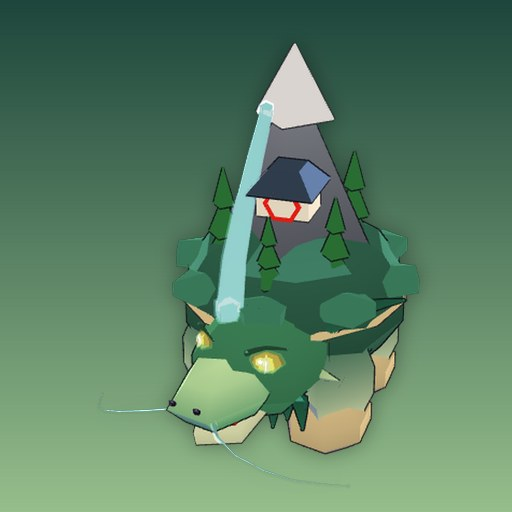
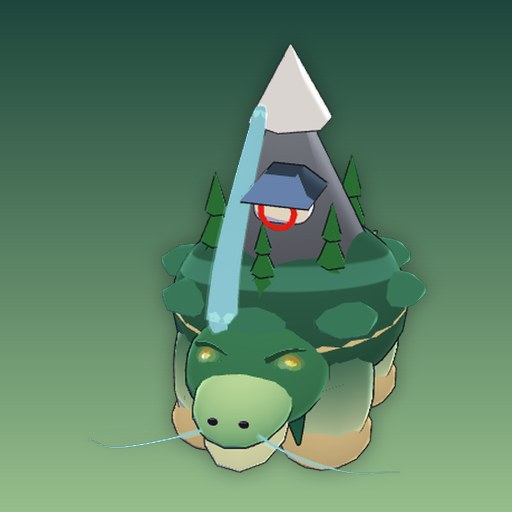
v90: kaiju redesigned as smooth rounded 3D forms (no facets or box parts), fin spikes, no limb banding, hit-flash capped on giants, art regenerated
Claude-Session: https://claude.ai/code/session_01SKeSLCyvBErUkZf5ohkh72

Changed region(s): [[0.2812, 0.0625, 0.8438, 0.9375], [0.25, 0.7812, 0.2812, 0.8125]]

diff --git a/goldstack-3d-chars.js b/goldstack-3d-chars.js
@@ -30,6 +30,11 @@ const G_={
   cyl:(rt,rb,h,rs=12,open=false)=>ni(new T.CylinderGeometry(rt,rb,h,sg(rs,4),1,open)),
   cone:(r,h,rs=10)=>ni(new T.ConeGeometry(r,h,sg(rs,4))),
   box:(w,h,d)=>ni(new T.BoxGeometry(w,h,d)),
+  /* v90 rounded box: a superellipsoid (pillow-soft edges), analytic normals so the toon shading stays smooth */
+  rbox:(w,h,d,e=0.5)=>{ const rx=w/2, ry=h/2, rz=d/2, g=new T.SphereGeometry(1,sg(18,8),sg(12,6)), p=g.attributes.position, N=new Float32Array(p.count*3), sp=(v,k)=>Math.sign(v)*Math.pow(Math.abs(v),k);
+    for(let i=0;i<p.count;i++){ const x=p.getX(i), y=p.getY(i), z=p.getZ(i); p.setXYZ(i,sp(x,e)*rx,sp(y,e)*ry,sp(z,e)*rz);
+      let nx=sp(x,1-e)/rx, ny=sp(y,1-e)/ry, nz=sp(z,1-e)/rz; const l=Math.hypot(nx,ny,nz)||1; N[i*3]=nx/l; N[i*3+1]=ny/l; N[i*3+2]=nz/l; }
+    g.setAttribute('normal',new T.BufferAttribute(N,3)); return ni(g); },
   tor:(R,r,rs=8,ts=24,arc=TAU)=>ni(new T.TorusGeometry(R,r,sg(rs,3),sg(ts,6),arc)),
   lathe:(pts,seg=16,phi0=0,phiL=TAU)=>{ const q=pts[0][1]>pts[pts.length-1][1]?pts.slice().reverse():pts;   /* profile must run bottom-up so faces point outward */
     return ni(new T.LatheGeometry(q.map(p=>new T.Vector2(Math.max(0.0005,p[0]),p[1])),sg(seg,5),phi0,phiL)); },
@@ -1337,7 +1342,7 @@ def('odokuro',  {type:'kaiju',v:'gz',g:'bone',atk:'bite'});
 def('mekaryu',  {type:'kaiju',v:'gz',g:'mecha',atk:'slam'});
 def('shishi',   {type:'quad',key:'shishi',len:4.4,height:1.9,w:1.9,leg:0.85,headR:1.9,col:0x8C9098,col2:0x5E626C,belly:0xC8CCD4,headKind:'lion',headCol:0x9CA0AA,muzzle:0xB4B8C2,mane:0x2E8C78,maneTip:0xBFF5DC,eyeCol:0xFFB03A,eyeGlow:true,fangs:true,tail:'fluffy',tailLen:2.0,tailCol:0x2E8C78,tailTip:0xBFF5DC,extra:shishiExtra});
 def('oshiro',   {type:'kaiju',v:'gz',g:'castle',atk:'slam'});
-const SEGK_OF={gokaryu:0.42,mizuchi:0.42,genbu:0.42,yamata:0.4,otori:0.42,hitotsume:0.45,odokuro:0.42,mekaryu:0.5,shishi:0.42,oshiro:0.42,kuzuryu:0.42,orochi:0.48,kitsune:0.55,amaterasu:0.55,susanoo:0.75,saruta:0.75,orizuru:0.72,kane:0.75,raijin:0.8,mao:0.8,inari:0.8};
+const SEGK_OF={gokaryu:0.65,mizuchi:0.65,genbu:0.65,yamata:0.65,otori:0.65,hitotsume:0.65,odokuro:0.65,mekaryu:0.65,shishi:0.65,oshiro:0.65,kuzuryu:0.42,orochi:0.48,kitsune:0.55,amaterasu:0.55,susanoo:0.75,saruta:0.75,orizuru:0.72,kane:0.75,raijin:0.8,mao:0.8,inari:0.8};
 function getBuilt(key){ if(BUILT[key]) return BUILT[key]; const sp=DEFS[key]; if(!sp) return null;
   const pK=SEGK; SEGK=SEGK_OF[key]||1; let b; try{ b=buildByType(sp); } finally{ SEGK=pK; }
   const geos=b.rig.build(); const bb=geos.toon.boundingBox; geos.height=bb.max.y-Math.min(0,bb.min.y);
@@ -1347,8 +1352,8 @@ function getBuilt(key){ if(BUILT[key]) return BUILT[key]; const sp=DEFS[key]; if
       for(let i=0;i<ps.count;i+=3){ v.fromBufferAttribute(ps,i).multiply(sc3).applyQuaternion(qq).add(new T.Vector3(pt.p[0],pt.p[1],pt.p[2])); const d=v.lengthSq(); if(d>best){ best=d; tip=v.clone(); } } }
     if(tip&&best<0.09) tip=null; }catch(err){ tip=null; }   /* v86: weapon tip in hand space, for the swing trail */
   return (BUILT[key]={sp,b,geos,height:geos.height,proto:b.rig,tip}); }
-function kBuild(sp){ const o=KJV[sp.v](sp); o.rig.minPart=0.1; o.rig.minPartOl=0.35; o.rig.facet=true; return o; }
-function kQuad(sp){ const o=buildQuad(sp); o.rig.minPart=0.07; o.rig.minPartOl=0.22; o.rig.facet=true; return o; }
+function kBuild(sp){ const o=KJV[sp.v](sp); o.rig.minPart=0.1; o.rig.minPartOl=0.35; return o; }
+function kQuad(sp){ const o=buildQuad(sp); o.rig.minPart=0.07; o.rig.minPartOl=0.22; return o; }
 function buildByType(sp){ return sp.type==='quad'?(sp.key==='genbu'||sp.key==='shishi'?kQuad(sp):buildQuad(sp)):sp.type==='serpent'?buildSerpent(sp):sp.type==='spider'?buildSpider(sp):sp.type==='blob'?buildBlob(sp):sp.type==='kaiju'?kBuild(sp):sp.type==='fish'?buildFish(sp):buildHuman(sp); }
 function cloneRig(proto){ /* fresh bone hierarchy matching the prototype's bind pose */
   const map={}, bones=[];
@@ -1534,21 +1539,21 @@ function kBipedBones(R,o){
 function kLegs(R,o){ const c=o.col;
   for(const sd of [1,-1]){ const n=sd>0?'L':'R';
     R.add('thigh'+n,G_.sph(o.thR*1.2,o.thR*1.1,o.thR*1.2),c,{});
-    R.add('thigh'+n,G_.cap(o.thR,Math.max(0.1,o.L1-o.thR*1.6),10),c,{p:[0,-o.L1*0.5,0],grad:o.belly,gax:1.5});
+    R.add('thigh'+n,G_.cap(o.thR,Math.max(0.1,o.L1-o.thR*1.6),10),c,{p:[0,-o.L1*0.5,0],grad:o.flat?null:o.belly,gax:1.5});
     R.add('shin'+n,G_.sph(o.shR*1.15,o.shR*1.1,o.shR*1.15),c,{});
-    R.add('shin'+n,G_.cap(o.shR,Math.max(0.1,o.L2-o.shR*1.6),10),c,{p:[0,-o.L2*0.5,0],grad:o.belly});
+    R.add('shin'+n,G_.cap(o.shR,Math.max(0.1,o.L2-o.shR*1.6),10),c,{p:[0,-o.L2*0.5,0],grad:o.flat?null:o.belly});
     const fl=o.fl||1.1, fr=o.fr||0.5;
     R.add('foot'+n,G_.sph(fr*0.95,fr*0.5,fl*0.62),o.foot||c,{p:[0,-0.12,fl*0.35]});
     for(let k=-1;k<=1;k++) R.add('foot'+n,G_.cone(fr*0.2,fl*0.55,5),o.claw||0xF2EAD8,{p:[k*fr*0.55,-0.14,fl*0.98],r:[Math.PI/2,0,0]}); } }
 function kArms(R,o,claws){ const c=o.col, r=o.arR;
   for(const sd of [1,-1]){ const n=sd>0?'L':'R';
     R.add('arm'+n,G_.sph(r*1.4,r*1.3,r*1.4),c,{});
-    R.add('arm'+n,G_.cap(r,Math.max(0.1,o.aU-r*1.6),9),c,{p:[0,-o.aU*0.5,0],grad:o.belly,gax:1.5});
+    R.add('arm'+n,G_.cap(r,Math.max(0.1,o.aU-r*1.6),9),c,{p:[0,-o.aU*0.5,0],grad:o.flat?null:o.belly,gax:1.5});
     R.add('fore'+n,G_.sph(r*1.1,r*1.05,r*1.1),c,{});
     R.add('fore'+n,G_.cap(r*0.92,Math.max(0.1,o.aF-r*1.6),9),c,{p:[0,-o.aF*0.5,0]});
     R.add('hand'+n,G_.sph(r*1.25,r*1.1,r*1.15),o.hand||c,{p:[0,-r*0.5,0.05]});
     if(claws!==false) for(let k=-1;k<=1;k++) R.add('hand'+n,G_.cone(r*0.2,r*1.5,5),o.claw||0xF2EAD8,{p:[k*r*0.55,-r*1.45,r*0.5],r:[Math.PI-0.7,0,0]}); } }
-function kTail(R,o,c,grad,n0){ for(let i=0;i<6;i++){ const r=o.tr*(1-i*0.15); R.add('tail'+i,G_.sph(r,r*0.95,o.tl*0.62,12,8),c,{p:[0,0,-o.tl*0.5],grad:i>2?grad:null}); } }
+function kTail(R,o,c,grad,n0){ for(let i=0;i<6;i++){ const r=o.tr*(1-i*0.15); R.add('tail'+i,G_.sph(r,r*0.95,o.tl*0.62,12,8),c,{p:[0,0,-o.tl*0.5],grad:(i>2&&!o.flat)?grad:null}); } }
 function kEyeGlow(R,bone,x,y,z,r,col,tilt){ R.add(bone,G_.sph(r*1.1,r*0.55,r*0.4,10,8),col,{p:[x,y,z],r:[0,0,tilt||0],glow:true,ol:false,grad:0xFFFFFF}); }
 function kTeeth(R,bone,n,x0,x1,z0,z1,y,sz,col,up){ for(let i=0;i<n;i++){ const t=n>1?i/(n-1):0.5, z=z0+(z1-z0)*t, x=x0+(x1-x0)*t;
     for(const sd of [1,-1]) R.add(bone,G_.cone(sz*0.5,sz*(1.1-0.4*Math.abs(t-0.4)),4),col,{p:[sd*x,y,z],r:[up?0:Math.PI,0,0],ol:false}); } }
@@ -1927,26 +1932,27 @@ const GZ={
   mecha :{hide:0x262A34,hide2:0x434A5A,belly:0x1A1D26,plate:0x2E3340,hot:0x59E6FF,hot2:0xFFFFFF,eye:0x59E6FF,claw:0xD8A82A},
   castle:{hide:0x3C5448,hide2:0x6A8C70,belly:0xC8BE98,plate:0x7C8290,hot:0xFFB03A,hot2:0xFFE79A,eye:0xFFE27A,claw:0xF5C542}};
 /* a flat diamond dorsal plate standing in the body's mid-plane; its tip leans back */
-function gzPlate(R,bone,x,y,z,s,col,hot,lean){ const a=G_.shape([[-0.62,0],[-0.22,0.95],[0,1.55],[0.22,0.95],[0.62,0]],0.2,0);
-  R.add(bone,a,col,{p:[x,y,z],r:[-(lean==null?0.5:lean),Math.PI/2,0],s:[s,s,s]});
-  if(hot) R.add(bone,G_.shape([[-0.2,0.9],[0,1.6],[0.2,0.9]],0.24,0),hot,{p:[x,y,z],r:[-(lean==null?0.5:lean),Math.PI/2,0],s:[s,s,s],glow:true,ol:false}); }
+function gzPlate(R,bone,x,y,z,s,col,hot,lean){ const ls=-(lean==null?0.5:lean);
+  const fin=G_.cone(0.62,1.55,10); fin.translate(0,0.775,0);
+  R.add(bone,fin,col,{p:[x,y,z],r:[ls,0,0],s:[s*0.34,s,s*0.9],grad:shade(col,0.7),gax:1.4});
+  if(hot){ const c2=G_.cone(0.3,1.1,8); c2.translate(0,0.55,0); R.add(bone,c2,hot,{p:[x,y+0.04*s,z],r:[ls,0,0],s:[s*0.5,s,s*0.9],glow:true,ol:false}); } }
 /* long-necked head (one of three on the hydra) */
 function gzHead(R,bone,jawBone,hr,P,g){
   const mech=g==='mecha', skull=g==='bone';
   if(mech){
-    R.add(bone,G_.box(hr*1.5,hr*1.1,hr*1.7),P.hide,{p:[0,0,hr*0.2],grad:P.hide2});
-    R.add(bone,G_.box(hr*1.2,hr*0.38,hr*0.5),P.hide2,{p:[0,-hr*0.05,hr*1.15]});
-    R.add(bone,G_.box(hr*1.3,hr*0.2,hr*0.35),P.hot,{p:[0,hr*0.12,hr*1.08],glow:true,ol:false,grad:P.hot2});
-    for(const sd of [1,-1]){ R.add(bone,G_.box(hr*0.25,hr*0.9,hr*1.0),P.plate,{p:[sd*hr*0.82,-hr*0.1,hr*0.1]});
+    R.add(bone,G_.rbox(hr*1.5,hr*1.1,hr*1.7),P.hide,{p:[0,0,hr*0.2],grad:P.hide2});
+    R.add(bone,G_.rbox(hr*1.2,hr*0.38,hr*0.5),P.hide2,{p:[0,-hr*0.05,hr*1.15]});
+    R.add(bone,G_.rbox(hr*1.3,hr*0.2,hr*0.35),P.hot,{p:[0,hr*0.12,hr*1.08],glow:true,ol:false,grad:P.hot2});
+    for(const sd of [1,-1]){ R.add(bone,G_.rbox(hr*0.25,hr*0.9,hr*1.0),P.plate,{p:[sd*hr*0.82,-hr*0.1,hr*0.1]});
       R.add(bone,G_.cone(hr*0.22,hr*1.6,4),P.claw,{p:[sd*hr*0.9,hr*0.85,-hr*0.2],r:[-0.5,0,sd*-0.7],grad:0x9A7418}); }
     R.add(bone,G_.shape([[-0.2,0],[0.2,0],[0.12,1.9],[0,2.4],[-0.12,1.9]],0.12,0),P.claw,{p:[0,hr*0.55,hr*0.55],r:[-0.3,0,0],s:[hr*0.8,hr*0.8,hr*0.8]});
-    R.add(jawBone||bone,G_.box(hr*1.1,hr*0.38,hr*1.2),P.hide2,{p:[0,-hr*0.5,hr*0.75]});
+    R.add(jawBone||bone,G_.rbox(hr*1.1,hr*0.38,hr*1.2),P.hide2,{p:[0,-hr*0.5,hr*0.75]});
     return; }
   const hc=skull?P.hide:P.hide, hc2=P.hide2;
   R.add(bone,G_.sph(hr*0.95,hr*0.8,hr*1.1,18,14),hc,{p:[0,0.05,0.1],grad:hc2,gax:1.5});
   R.add(bone,G_.sph(hr*(skull?0.55:0.72),hr*(skull?0.38:0.48),hr*(g==='wyvern'?1.25:1.05),16,12),hc,{p:[0,-hr*0.12,hr*1.15]});
   for(const sd of [1,-1]){
-    R.add(bone,G_.box(hr*0.55,hr*0.14,hr*0.7),shade(hc,0.55),{p:[sd*hr*0.46,hr*0.5,hr*0.78],r:[0.35,sd*-0.2,sd*-0.5]});   /* angry brow wedge */
+    R.add(bone,G_.rbox(hr*0.55,hr*0.14,hr*0.7),shade(hc,0.55),{p:[sd*hr*0.46,hr*0.5,hr*0.78],r:[0.35,sd*-0.2,sd*-0.5]});   /* angry brow wedge */
     kEyeGlow(R,bone,sd*hr*0.46,hr*(skull?0.18:0.3),hr*1.0,hr*(skull?0.34:0.26),P.eye,sd*-0.5);
     R.add(bone,G_.sph(hr*0.07,hr*0.06,hr*0.08,5,4),0x120E14,{p:[sd*hr*0.2,hr*0.02,hr*2.05],ol:false}); }
   /* species crests and horns */
@@ -1961,7 +1967,7 @@ function gzHead(R,bone,jawBone,hr,P,g){
       R.add(bone,G_.cone(hr*0.12,hr*0.9,4),0xFFF4D0,{p:[sd*hr*0.85,hr*0.1,hr*0.1],r:[-0.3,0,sd*-1.35]}); }
     R.add(bone,G_.shape([[-0.2,0],[0,1.4],[0.2,0]],0.16,0),P.plate,{p:[0,hr*0.75,-hr*0.1],r:[-0.4,Math.PI/2,0],s:[hr*0.9,hr*0.9,hr*0.9]}); }
   if(skull) for(const sd of [1,-1]) R.add(bone,G_.cone(hr*0.16,hr*1.0,4),P.hide2,{p:[sd*hr*0.55,hr*0.85,-hr*0.2],r:[-0.7,0,sd*-0.45]});
-  if(g==='castle') for(const sd of [1,-1]){ R.add(bone,G_.cone(hr*0.24,hr*1.8,4),P.claw,{p:[sd*hr*0.6,hr*0.85,-hr*0.2],r:[-0.55,0,sd*-0.6],grad:0xB88810}); R.add(bone,G_.box(hr*0.5,hr*0.14,hr*0.7),0xC8241E,{p:[sd*hr*0.46,hr*0.62,hr*0.75],r:[0.35,sd*-0.2,sd*-0.5]}); }
+  if(g==='castle') for(const sd of [1,-1]){ R.add(bone,G_.cone(hr*0.24,hr*1.8,4),P.claw,{p:[sd*hr*0.6,hr*0.85,-hr*0.2],r:[-0.55,0,sd*-0.6],grad:0xB88810}); R.add(bone,G_.rbox(hr*0.5,hr*0.14,hr*0.7),0xC8241E,{p:[sd*hr*0.46,hr*0.62,hr*0.75],r:[0.35,sd*-0.2,sd*-0.5]}); }
   /* mouth: dark gap, glow, teeth, jaw */
   R.add(bone,G_.sph(hr*0.55,hr*0.14,hr*1.0),skull?0x14101E:P.hot,{p:[0,-hr*0.52,hr*1.0],glow:!skull,ol:false,grad:P.hot2});
   kTeeth(R,bone,6,hr*0.5,hr*0.36,hr*0.5,hr*(g==='wyvern'?1.9:1.7),-hr*0.5,hr*(skull?0.4:0.32),0xFFFFFF,false);
@@ -1980,7 +1986,7 @@ function gzWings(R,P,W1,W2,L,span){ const mem=P.plate, fing=P.hide;
     kSpike(R,'wing2'+n,0.22,1.3,P.claw,[sd*W2,-0.3,-0.2],0,sd*-1.57); } }
 KJV.gz=function(sp){
   const g=sp.g, P=GZ[g], R=new Rig(), mech=g==='mecha', skel=g==='bone', hyd=g==='hydra', wyv=g==='wyvern', cas=g==='castle', tide=g==='tide';
-  const o={L1:2.3,L2:2.1,ft:0.35,tH:3.7,hw:1.45,cw:2.2,nk:1.1,hr:1.8,aU:1.2,aF:1.1,tl:1.55,tr:1.65,thR:1.4,shR:0.95,arR:0.5,fl:2.0,fr:0.85,col:P.hide,belly:P.belly,foot:P.hide,claw:P.claw,neckZ:0.55,headZ:0.5};
+  const o={L1:2.3,L2:2.1,ft:0.35,tH:3.7,hw:1.45,cw:2.2,nk:1.1,hr:1.8,aU:1.2,aF:1.1,tl:1.55,tr:1.65,thR:1.4,shR:0.95,arR:0.5,fl:2.0,fr:0.85,col:P.hide,belly:P.belly,foot:P.hide,claw:P.claw,neckZ:0.55,headZ:0.5,flat:true};
   if(tide) Object.assign(o,{thR:1.2,shR:0.8,aU:1.5,aF:1.4,arR:0.45,fr:0.95,tr:1.4});
   if(wyv) Object.assign(o,{thR:1.1,shR:0.75,L1:2.6,L2:2.6,nk:1.7,hr:1.55,aU:0,tl:1.7,tr:1.1,neckZ:0.9,fl:2.2,fr:0.7});
   if(hyd) Object.assign(o,{nk:2.4,hr:1.4,aU:0,thR:1.3,tl:1.8,tr:1.4,neckZ:0.7});
@@ -1988,17 +1994,17 @@ KJV.gz=function(sp){
   if(mech) Object.assign(o,{thR:1.55,shR:1.15,arR:0.8,aU:1.9,aF:1.8,cw:2.8,tr:1.25,hr:1.5,fl:2.3,fr:1.15});
   if(cas) Object.assign(o,{thR:1.9,shR:1.25,tH:4.0,cw:3.0,hw:1.9,arR:0.75,aU:1.6,aF:1.5,hr:2.0,tr:2.1,tl:1.9,fl:2.5,fr:1.2});
   kBipedBones(R,o);
-  const blob=(rx,ry,rz,ws,hs)=>mech?G_.box(rx*1.9,ry*1.9,rz*1.9):G_.sph(rx,ry,rz,ws,hs);
+  const blob=(rx,ry,rz,ws,hs)=>mech?G_.rbox(rx*1.9,ry*1.9,rz*1.9):G_.sph(rx,ry,rz,ws,hs);
   /* legs, arms, tail */
   if(mech){ for(const sd of [1,-1]){ const n=sd>0?'L':'R';
-      R.add('thigh'+n,G_.box(o.thR*1.9,o.L1*0.95,o.thR*1.9),P.hide,{p:[0,-o.L1*0.5,0],grad:P.hide2}); R.add('thigh'+n,G_.box(o.thR*2.1,0.25,o.thR*2.1),P.claw,{p:[0,-0.1,0],ol:false});
-      R.add('shin'+n,G_.box(o.shR*1.9,o.L2*0.95,o.shR*1.9),P.hide,{p:[0,-o.L2*0.5,0]}); R.add('shin'+n,G_.box(o.shR*2.0,0.5,o.shR*2.0),P.hide2,{p:[0,0.0,0.1]});
-      R.add('foot'+n,G_.box(o.fr*2.2,0.7,o.fl*1.35),P.hide2,{p:[0,-0.2,o.fl*0.35]});
+      R.add('thigh'+n,G_.rbox(o.thR*1.9,o.L1*0.95,o.thR*1.9),P.hide,{p:[0,-o.L1*0.5,0],grad:P.hide2}); R.add('thigh'+n,G_.rbox(o.thR*2.1,0.25,o.thR*2.1),P.claw,{p:[0,-0.1,0],ol:false});
+      R.add('shin'+n,G_.rbox(o.shR*1.9,o.L2*0.95,o.shR*1.9),P.hide,{p:[0,-o.L2*0.5,0]}); R.add('shin'+n,G_.rbox(o.shR*2.0,0.5,o.shR*2.0),P.hide2,{p:[0,0.0,0.1]});
+      R.add('foot'+n,G_.rbox(o.fr*2.2,0.7,o.fl*1.35),P.hide2,{p:[0,-0.2,o.fl*0.35]});
       for(let k=-1;k<=1;k++) R.add('foot'+n,G_.cone(o.fr*0.25,o.fl*0.5,4),P.claw,{p:[k*o.fr*0.6,-0.2,o.fl*0.98],r:[Math.PI/2,0,0]});
-      R.add('arm'+n,G_.box(o.arR*2.2,o.arR*2.2,o.arR*2.2),P.hide2,{p:[sd*0.3,0.1,0]}); R.add('arm'+n,G_.box(o.arR*1.7,o.aU,o.arR*1.7),P.hide,{p:[0,-o.aU*0.5,0]});
-      R.add('fore'+n,G_.box(o.arR*1.9,o.aF,o.arR*1.9),P.hide2,{p:[0,-o.aF*0.5,0]}); R.add('hand'+n,G_.box(o.arR*2.2,o.arR*1.6,o.arR*2.0),P.hide,{p:[0,-o.arR*0.5,0.05]});
+      R.add('arm'+n,G_.rbox(o.arR*2.2,o.arR*2.2,o.arR*2.2),P.hide2,{p:[sd*0.3,0.1,0]}); R.add('arm'+n,G_.rbox(o.arR*1.7,o.aU,o.arR*1.7),P.hide,{p:[0,-o.aU*0.5,0]});
+      R.add('fore'+n,G_.rbox(o.arR*1.9,o.aF,o.arR*1.9),P.hide2,{p:[0,-o.aF*0.5,0]}); R.add('hand'+n,G_.rbox(o.arR*2.2,o.arR*1.6,o.arR*2.0),P.hide,{p:[0,-o.arR*0.5,0.05]});
       for(let k=-1;k<=1;k++) R.add('hand'+n,G_.cone(o.arR*0.22,o.arR*1.5,4),P.claw,{p:[k*o.arR*0.6,-o.arR*1.4,o.arR*0.5],r:[Math.PI-0.7,0,0]}); }
-    for(let i=0;i<6;i++){ const r=o.tr*(1-i*0.13); R.add('tail'+i,G_.box(r*1.8,r*1.5,o.tl*0.95),i%2?P.hide2:P.hide,{p:[0,0,-o.tl*0.5]}); } }
+    for(let i=0;i<6;i++){ const r=o.tr*(1-i*0.13); R.add('tail'+i,G_.rbox(r*1.8,r*1.5,o.tl*0.95),i%2?P.hide2:P.hide,{p:[0,0,-o.tl*0.5]}); } }
   else { kLegs(R,o); if(o.aU) kArms(R,o); kTail(R,o,P.hide,P.hide2); if(skel) for(let i=0;i<6;i++) R.add('tail'+i,G_.sph(o.tr*(1-i*0.12)*0.75,o.tr*0.6,0.2),P.hide2,{p:[0,0.05,-o.tl*0.3]}); }
   /* torso */
   R.add('pelvis',blob(1.8,1.5,2.0,12,8),P.hide,{grad:P.belly,gax:2.4});
@@ -2008,7 +2014,7 @@ KJV.gz=function(sp){
     for(const [bn,y] of [['pelvis',0.2],['spine',0.5],['spine',-0.6],['chest',1.1],['chest',0.2],['chest',-0.7]]) R.add(bn,G_.sph(0.55,0.5,0.55,6,4),P.hide2,{p:[0,y,-1.3]});
     R.add('chest',G_.sph(0.9,1.0,0.8,8,5),P.hot,{p:[0,0.0,0.2],glow:true,ol:false,grad:P.hot2}); }
   else { R.add('spine',blob(2.0,1.8,1.95,12,8),P.hide,{grad:P.belly,gax:2.2}); R.add('chest',blob(2.5,2.1,2.15,12,8),P.hide,{grad:P.belly,gax:2.2});
-    for(let i=0;i<5;i++){ const y=1.0-i*0.5; R.add('chest',mech?G_.box(1.9,0.12,0.2):G_.sph(1.1-Math.abs(y)*0.2,0.14,0.3,8,4),shade(P.belly,1.15),{p:[0,y,2.05*Math.sqrt(Math.max(0.05,1-(y/2.1)**2))],ol:false}); } }
+    for(let i=0;i<5;i++){ const y=1.0-i*0.5; R.add('chest',mech?G_.rbox(1.9,0.12,0.2):G_.sph(1.1-Math.abs(y)*0.2,0.14,0.3,8,4),shade(P.belly,1.15),{p:[0,y,2.05*Math.sqrt(Math.max(0.05,1-(y/2.1)**2))],ol:false}); } }
   /* species dorsal armour */
   if(!skel&&!wyv){ const sp0=tide?1.7:cas?0.8:mech?1.2:hyd?1.1:1.5, col=P.plate, hot=(g==='ember'||g==='tide'||mech)?P.hot:null;
     gzPlate(R,'chest',0,1.2,-1.76,sp0*0.95,col,hot); gzPlate(R,'chest',0,0.2,-2.12,sp0*1.2,col,hot); gzPlate(R,'chest',0,-0.8,-1.98,sp0*1.1,col,hot);
@@ -2021,19 +2027,19 @@ KJV.gz=function(sp){
     kTube(R,'thigh'+(sd>0?'L':'R'),[[sd*0.2,-0.2,1.0],[sd*0.45,-0.9,0.95],[sd*0.3,-1.6,0.85]],0.08,0.04,P.hot,{glow:true,ol:false,rs:4,seg:6}); }
   if(mech){ R.add('chest',G_.sph(0.95,0.95,0.5,10,6),P.hot,{p:[0,0.45,2.12],glow:true,ol:false,grad:P.hot2}); R.add('chest',G_.tor(1.15,0.16,4,12),P.claw,{p:[0,0.45,2.1]});
     for(const sd of [1,-1]){ R.add('chest',G_.cyl(0.55,0.65,2.2,6),P.hide2,{p:[sd*2.4,1.9,-0.3],r:[Math.PI/2-0.3,0,0]}); R.add('chest',G_.sph(0.4,0.4,0.4,6,4),P.hot,{p:[sd*2.4,2.5,1.0],glow:true,ol:false});
-      R.add('chest',G_.box(1.1,1.6,2.2),P.plate,{p:[sd*2.5,0.6,0.2]}); for(let k=0;k<3;k++) R.add('chest',G_.box(0.2,0.1,0.3),P.hot,{p:[sd*2.62,0.2+k*0.3,1.35],glow:true,ol:false}); }
-    for(let i=0;i<6;i++) R.add('tail'+i,G_.box(0.15,0.12,0.5),P.hot,{p:[0,o.tr*0.8*(1-i*0.13),-0.3],glow:true,ol:false}); }
+      R.add('chest',G_.rbox(1.1,1.6,2.2),P.plate,{p:[sd*2.5,0.6,0.2]}); for(let k=0;k<3;k++) R.add('chest',G_.rbox(0.2,0.1,0.3),P.hot,{p:[sd*2.62,0.2+k*0.3,1.35],glow:true,ol:false}); }
+    for(let i=0;i<6;i++) R.add('tail'+i,G_.rbox(0.15,0.12,0.5),P.hot,{p:[0,o.tr*0.8*(1-i*0.13),-0.3],glow:true,ol:false}); }
   if(cas){ /* the castle riding its back: three tiers of white plaster under dark tiled roofs, burning windows, a golden shachi crown */
     const plaster=0xF2EEE2, tile=0x2F3C4E, gold=0xF5C542, red=0xC8241E, roof=(w,d,y)=>{ R.add('chest',G_.cyl(w*0.45,w*1.0,0.9,4),tile,{p:[0,y,-1.2],r:[0,Math.PI/4,0],s:[1,1,d/w],grad:shade(tile,1.6),gax:1.4});
       for(const sd of [1,-1]){ kSpike(R,'chest',0.16,0.9,tile,[sd*w*0.74,y-0.2,-1.2],0,sd*-1.0,{ol:false}); R.add('chest',G_.cone(0.2,0.7,4),gold,{p:[sd*w*0.42,y+0.75,-1.2],r:[0,0,sd*-0.2]}); } };
-    R.add('chest',G_.box(4.4,1.5,3.0),plaster,{p:[0,2.5,-1.2],grad:0xDAD4C2,gax:1.6}); roof(3.1,2.2,3.5);
-    R.add('chest',G_.box(3.0,1.4,2.2),plaster,{p:[0,4.4,-1.2],grad:0xDAD4C2}); roof(2.3,1.7,5.3);
-    R.add('chest',G_.box(1.9,1.2,1.5),plaster,{p:[0,6.0,-1.2],grad:0xDAD4C2}); roof(1.6,1.3,6.9);
+    R.add('chest',G_.rbox(4.4,1.5,3.0),plaster,{p:[0,2.5,-1.2],grad:0xDAD4C2,gax:1.6}); roof(3.1,2.2,3.5);
+    R.add('chest',G_.rbox(3.0,1.4,2.2),plaster,{p:[0,4.4,-1.2],grad:0xDAD4C2}); roof(2.3,1.7,5.3);
+    R.add('chest',G_.rbox(1.9,1.2,1.5),plaster,{p:[0,6.0,-1.2],grad:0xDAD4C2}); roof(1.6,1.3,6.9);
     for(const sd of [1,-1]){ R.add('chest',G_.sph(0.2,0.5,0.2,6,4),gold,{p:[sd*0.6,7.8,-1.2],r:[0,0,sd*-0.35]}); kSpike(R,'chest',0.16,0.55,gold,[sd*0.5,8.1,-1.2],0,sd*0.5); }
-    for(const [y,w] of [[2.5,1.2],[4.4,0.9],[6.0,0.6]]) for(const sx of [-1,1]) R.add('chest',G_.box(w*0.5,0.5,0.1),P.hot,{p:[sx*w*1.1,y,0.38],glow:true,ol:false,grad:P.hot2});
+    for(const [y,w] of [[2.5,1.2],[4.4,0.9],[6.0,0.6]]) for(const sx of [-1,1]) R.add('chest',G_.rbox(w*0.5,0.5,0.1),P.hot,{p:[sx*w*1.1,y,0.38],glow:true,ol:false,grad:P.hot2});
     for(const sd of [1,-1]){ R.add('chest',G_.cyl(0.07,0.07,4.6,4),0x3A2A22,{p:[sd*2.6,3.2,-2.4],ol:false}); R.add('chest',G_.shape([[0,0],[0.9,0.1],[0.95,-2.2],[0,-2.1]],0.03,0),red,{p:[sd*2.6+sd*0.5,5.2,-2.4]}); }
     /* stone shoulder bastions and a gold-trimmed belly plate */
-    for(const sd of [1,-1]){ R.add('chest',G_.box(1.5,1.1,1.7),P.plate,{p:[sd*2.6,1.4,0.0],grad:P.hide2}); R.add('chest',G_.box(1.6,0.2,1.8),gold,{p:[sd*2.6,2.0,0.0],ol:false}); } }
+    for(const sd of [1,-1]){ R.add('chest',G_.rbox(1.5,1.1,1.7),P.plate,{p:[sd*2.6,1.4,0.0],grad:P.hide2}); R.add('chest',G_.rbox(1.6,0.2,1.8),gold,{p:[sd*2.6,2.0,0.0],ol:false}); } }
   /* neck(s) and head(s) */
   R.add('neck',G_.cap(hyd?0.75:wyv?0.7:skel?0.5:1.05,hyd?1.6:wyv?1.1:0.8,6),P.hide,{p:[0,hyd?0.9:0.45,0.2],r:[hyd?0.2:0.45,0,0],grad:P.belly,gax:2});
   const hr=o.hr;
@@ -2053,7 +2059,7 @@ function shishiExtra(R,d,G){ const W=d.W, L=d.L, stone=0x7C8290, jade=0x2E8C78, 
   for(let i=0;i<5;i++){ const z=(i-2)*L*0.17; gzPlate(R,'body',0,W*0.82,z,0.75-Math.abs(i-2)*0.08,stone,null,0.2); }
   R.add('neck',G_.tor(0.75,0.12,4,10),0xD8C8A0,{p:[0,0.05,0.0],r:[Math.PI/2,0.5,0]});   /* the sacred rope round its throat */
   R.add('head',G_.cone(d.hr*0.16,d.hr*0.9,4),gold,{p:[0,d.hr*0.95,d.hr*0.45],r:[0.35,0,0],grad:0xB88810});          /* one golden horn */
-  for(const sd of [1,-1]){ R.add('front',G_.box(0.7,0.12,0.7),jade,{p:[sd*W*0.75,W*0.5,0.0],glow:true,ol:false}); R.add('rear',G_.box(0.7,0.12,0.7),jade,{p:[sd*W*0.7,W*0.5,0.0],glow:true,ol:false}); } }
+  for(const sd of [1,-1]){ R.add('front',G_.rbox(0.7,0.12,0.7),jade,{p:[sd*W*0.75,W*0.5,0.0],glow:true,ol:false}); R.add('rear',G_.rbox(0.7,0.12,0.7),jade,{p:[sd*W*0.7,W*0.5,0.0],glow:true,ol:false}); } }
 function genbuExtra(R,d,G){ const W=d.W, L=d.L, shell=0x2F5A4A, rock=0x7C8290, snow=0xF4F8FF, pine=0x2E6A3A, red=0xC8241E, gold=0xF5C542, wood=0x5A3A22;
   R.add('body',G.sph(W*1.6,W*1.15,L*0.68,24,16),shell,{p:[0,W*0.5,-L*0.03],grad:shade(shell,0.55),gax:1.6});
   for(let i=0;i<8;i++){ const a=i/8*TAU, rr=W*1.5; R.add('body',G.sph(W*0.45,W*0.2,W*0.45,8,6),shade(shell,1.3),{p:[Math.sin(a)*rr*0.95,W*0.5+Math.cos(a*1.0)*0.0+W*0.35,Math.cos(a)*L*0.62*0.95-L*0.03],r:[0,a,0],ol:false}); }
@@ -2062,7 +2068,7 @@ function genbuExtra(R,d,G){ const W=d.W, L=d.L, shell=0x2F5A4A, rock=0x7C8290, s
   R.add('body',G.cone(W*0.55,W*1.0,7),snow,{p:[0,W*3.55,-L*0.03],ol:true});
   for(const [x,z,s] of [[-0.9,0.5,1.0],[0.8,0.7,0.85],[-0.5,-0.9,0.9],[0.7,-0.7,1.0],[0.0,1.2,0.7]]){ for(let k=0;k<3;k++) R.add('body',G.cone(W*0.3*s*(1-k*0.25),W*0.55*s,6),pine,{p:[x*W*0.95,W*(1.35+0.0)+W*0.42*k*s-0.05*W,z*W*0.95-L*0.03],ol:true}); }
   /* a small shrine halfway up */
-  R.add('body',G.box(W*0.7,W*0.38,W*0.55),0xF2EEE2,{p:[W*0.15,W*2.2,W*0.75-L*0.03]}); R.add('body',G.cyl(W*0.28,W*0.62,W*0.3,4),0x2F3C4E,{p:[W*0.15,W*2.5,W*0.75-L*0.03],r:[0,Math.PI/4,0]});
+  R.add('body',G.rbox(W*0.7,W*0.38,W*0.55),0xF2EEE2,{p:[W*0.15,W*2.2,W*0.75-L*0.03]}); R.add('body',G.cyl(W*0.28,W*0.62,W*0.3,4),0x2F3C4E,{p:[W*0.15,W*2.5,W*0.75-L*0.03],r:[0,Math.PI/4,0]});
   R.add('body',G.tor(W*0.22,W*0.04,4,12),red,{p:[W*0.15,W*2.2,W*1.04-L*0.03],ol:false});
   /* a waterfall running down the mountain onto the shell */
   kTube(R,'body',[[-W*0.3,W*3.2,W*0.3-L*0.03],[-W*0.35,W*2.4,W*0.9-L*0.03],[-W*0.4,W*1.5,W*1.4-L*0.03],[-W*0.4,W*0.9,W*1.6-L*0.03]],W*0.1,W*0.2,0x9FE6FF,{glow:true,ol:false,rs:5,seg:10});
@@ -2444,7 +2450,8 @@ const API={
     if(I.kind==='human'&&!I.imported&&STYLE==='anime'){ const swing=S.atkU>=0.1&&S.atkU<iu+0.2&&(TRAIL_STYLES[st]!=null)&&!(p.cast); trailTick(I,swing,dt,sc,TRAIL_STYLES[st]||0xFFFFFF); }
     /* status tints and hit flash */
     _tint.copy(WHITE); if(p.tint!=null) _tint.set(p.tint).lerp(WHITE,0.55); if(p.frozen) _tint.setRGB(0.65,0.9,1.0); if(p.burn) _tint.setRGB(1,0.82,0.7);
-    for(const m of (I.mats||[I.mat])){ m.color.copy(m.userData.base||WHITE).multiply(_tint); m.emissive.setRGB(S.hit*0.55,S.hit*0.12,S.hit*0.1); }
+    const hk=(I.sp&&(I.sp.type==='kaiju'||I.sp.key==='genbu'||I.sp.key==='shishi'))?0.22:1;   /* v90: a building-sized body must not flood pink under constant tower fire */
+    for(const m of (I.mats||[I.mat])){ m.color.copy(m.userData.base||WHITE).multiply(_tint); m.emissive.setRGB(S.hit*0.55*hk,S.hit*0.12*hk,S.hit*0.1*hk); }
     /* v85 death dissolve (p.dissolve 0..1): body, ink line and glow all burn away together */
     const dis=p.dissolve||0;
     if(dis>0||I.dis){ I.dis=dis; for(const m of (I.mats||[I.mat])) if(m.userData.dis) m.userData.dis.value=dis;

diff --git a/goldstack-art-kaiju.js b/goldstack-art-kaiju.js
@@ -1,4 +1,4 @@
 window.GKA=window.GKA||{SPR:{},SPR_AR:{},ANIM:{},ANIM_META:{},ART:{}};
 Object.assign(GKA.ANIM,{"gokaryu": "assets/art/k_gokaryu.webp", "mizuchi": "assets/art/k_mizuchi.webp", "genbu": "assets/art/k_genbu.webp", "yamata": "assets/art/k_yamata.webp", "otori": "assets/art/k_otori.webp", "hitotsume": "assets/art/k_hitotsume.webp", "odokuro": "assets/art/k_odokuro.webp", "mekaryu": "assets/art/k_mekaryu.webp", "shishi": "assets/art/k_shishi.webp", "oshiro": "assets/art/k_oshiro.webp"});
-Object.assign(GKA.ANIM_META,{"gokaryu": {"ar": 0.59, "hs": 1.0, "walk": 1, "n": 3, "cycle": [1, 0], "atkF": 2}, "mizuchi": {"ar": 0.529, "hs": 1.0, "walk": 1, "n": 3, "cycle": [1, 0], "atkF": 2}, "genbu": {"ar": 0.74, "hs": 1.0, "walk": 1, "n": 3, "cycle": [1, 0], "atkF": 2}, "yamata": {"ar": 1.123, "hs": 1.0, "walk": 1, "n": 3, "cycle": [1, 0], "atkF": 2}, "otori": {"ar": 1.084, "hs": 1.0, "walk": 1, "n": 3, "cycle": [1, 0], "atkF": 2}, "hitotsume": {"ar": 0.496, "hs": 1.0, "walk": 1, "n": 3, "cycle": [1, 0], "atkF": 2}, "odokuro": {"ar": 0.596, "hs": 1.0, "walk": 1, "n": 3, "cycle": [1, 0], "atkF": 2}, "mekaryu": {"ar": 0.662, "hs": 1.0, "walk": 1, "n": 3, "cycle": [1, 0], "atkF": 2}, "shishi": {"ar": 1.086, "hs": 1.0, "walk": 1, "n": 3, "cycle": [1, 0], "atkF": 2}, "oshiro": {"ar": 0.648, "hs": 1.0, "walk": 1, "n": 3, "cycle": [1, 0], "atkF": 2}});
+Object.assign(GKA.ANIM_META,{"gokaryu": {"ar": 0.57, "hs": 1.0, "walk": 1, "n": 3, "cycle": [1, 0], "atkF": 2}, "mizuchi": {"ar": 0.533, "hs": 1.0, "walk": 1, "n": 3, "cycle": [1, 0], "atkF": 2}, "genbu": {"ar": 0.766, "hs": 1.0, "walk": 1, "n": 3, "cycle": [1, 0], "atkF": 2}, "yamata": {"ar": 1.137, "hs": 1.0, "walk": 1, "n": 3, "cycle": [1, 0], "atkF": 2}, "otori": {"ar": 0.908, "hs": 1.0, "walk": 1, "n": 3, "cycle": [1, 0], "atkF": 2}, "hitotsume": {"ar": 0.508, "hs": 1.0, "walk": 1, "n": 3, "cycle": [1, 0], "atkF": 2}, "odokuro": {"ar": 0.424, "hs": 1.0, "walk": 1, "n": 3, "cycle": [1, 0], "atkF": 2}, "mekaryu": {"ar": 0.709, "hs": 1.0, "walk": 1, "n": 3, "cycle": [1, 0], "atkF": 2}, "shishi": {"ar": 1.141, "hs": 1.0, "walk": 1, "n": 3, "cycle": [1, 0], "atkF": 2}, "oshiro": {"ar": 0.664, "hs": 1.0, "walk": 1, "n": 3, "cycle": [1, 0], "atkF": 2}});
 Object.assign(GKA.ART,{"gokaryu": "assets/art/p_gokaryu.jpg", "mizuchi": "assets/art/p_mizuchi.jpg", "genbu": "assets/art/p_genbu.jpg", "yamata": "assets/art/p_yamata.jpg", "otori": "assets/art/p_otori.jpg", "hitotsume": "assets/art/p_hitotsume.jpg", "odokuro": "assets/art/p_odokuro.jpg", "mekaryu": "assets/art/p_mekaryu.jpg", "shishi": "assets/art/p_shishi.jpg", "oshiro": "assets/art/p_oshiro.jpg"});

diff --git a/index.html b/index.html
@@ -29,7 +29,7 @@
   <i></i>
   <div>Loading Goldstack Keep</div>
   <div id="bootStep">Starting…</div>
-  <div id="bootVer">Build v89 · 75 stages · 80 heroes · 31 recruits</div>
+  <div id="bootVer">Build v90 · 75 stages · 80 heroes · 31 recruits</div>
   <div id="bootErr"></div>
 </div>
 <script type="importmap">
@@ -45,7 +45,7 @@
   window.GK_SUPABASE = { url: "https://xrsvrvrqrctvufkneizs.supabase.co", key: "eyJhbGciOiJIUzI1NiIsInR5cCI6IkpXVCJ9.eyJpc3MiOiJzdXBhYmFzZSIsInJlZiI6Inhyc3ZydnJxcmN0dnVma25laXpzIiwicm9sZSI6ImFub24iLCJpYXQiOjE3ODM0MDQ2NzQsImV4cCI6MjA5ODk4MDY3NH0.R372wC1w81zfMjLMjG7L_sFKM67bdVoGd3-E4JUQ97s" };
 
   (function(){
-    var GAME='./goldstack-keep-game.js?v=89';   /* the game now lives in your own repo */
+    var GAME='./goldstack-keep-game.js?v=90';   /* the game now lives in your own repo */
     var step=document.getElementById('bootStep'), errBox=document.getElementById('bootErr'), done=false;
     function say(t){ step.textContent=t; }
     function fail(t,d){ errBox.style.display='block'; errBox.innerHTML='<b>'+t+'</b><br>'+(d||''); }
@@ -68,12 +68,12 @@
     function go(){
       if(!window.THREE){ fail('3D engine did not start','Your browser may be blocking WebGL.'); return; }
       load('https://cdn.jsdelivr.net/npm/@supabase/supabase-js@2.45.4/dist/umd/supabase.min.js','Loading accounts…',function(){
-      load('./goldstack-art-core.js?v=89','Loading artwork…',function(){
-      load('./goldstack-art-gods.js?v=89','Loading the gods…',function(){
-      load('./goldstack-art-kaiju.js?v=89','Summoning the Kaiju…',function(){
+      load('./goldstack-art-core.js?v=90','Loading artwork…',function(){
+      load('./goldstack-art-gods.js?v=90','Loading the gods…',function(){
+      load('./goldstack-art-kaiju.js?v=90','Summoning the Kaiju…',function(){
       preloadArt(function(){
-      load('./goldstack-3d-chars.js?v=89','Loading 3D characters…',function(){
-      load('./goldstack-3d-world.js?v=89','Building the village…',function(){
+      load('./goldstack-3d-chars.js?v=90','Loading 3D characters…',function(){
+      load('./goldstack-3d-world.js?v=90','Building the village…',function(){
       load(GAME,'Loading game…',function(){ done=true; var b=document.getElementById('boot'); if(b) b.remove(); });
       });
       });
